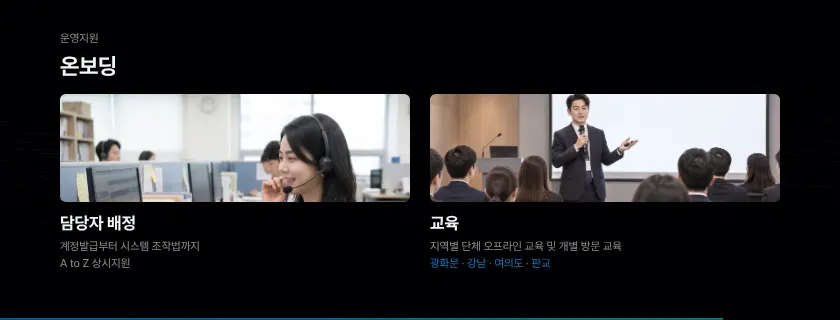
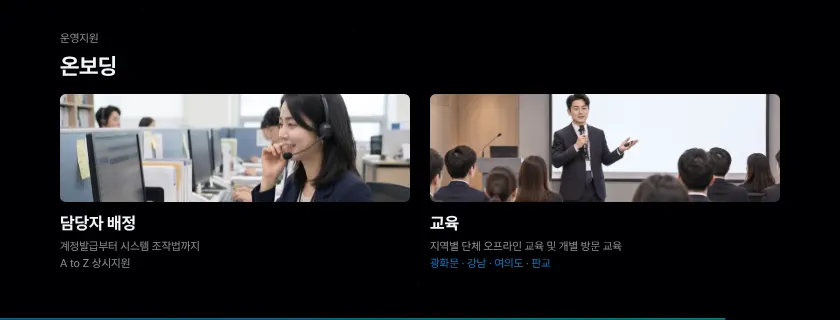
session4 K28a: 담당자 배정 사진을 위로 올려 인물이 더 보이게(세로 위치 14% → 36%, 머리부터 상반신까지)
Claude-Session: https://claude.ai/code/session_01Mn7NmyW5iujmmHnaRBFKBZ

Changed region(s): [[0.0619, 0.2812, 0.4952, 0.6562]]

diff --git a/sw.js b/sw.js
@@ -1,5 +1,5 @@
 /* 오프라인 캐시 — 온라인 주소(https)로 한 번 열면 모든 파일을 저장해 두고, 통신이 끊겨도 저장본으로 동작합니다. */
-const V='seminar-screen-11262136';
+const V='seminar-screen-11262139';
 const FILES=["./","assets/KakaoBigSans-Bold.woff2","assets/KakaoBigSans-Regular.woff2","assets/KakaoSmallSans-Bold.woff2","assets/KakaoSmallSans-Light.woff2","assets/KakaoSmallSans-Regular.woff2","assets/OrbitControls.js","assets/PretendardVariable.woff2","assets/attendees.js","assets/blue-bloom.html","assets/cong1.webp","assets/cong2.webp","assets/ds-bg.html","assets/four-states.html","assets/intro.mp4","assets/irk-white.svg","assets/irk-wordmark-white.svg","assets/kism-intro.mp4","assets/kism-white.svg","assets/ksmp-white.svg","assets/panel.js","assets/qa-online.js","assets/s2/img1.png","assets/s2/img2.png","assets/s2/img3.png","assets/s2/img4.png","assets/s4/aws.webp","assets/s4/callcenter.webp","assets/s4/chair-1.webp","assets/s4/chair-2.webp","assets/s4/chair-3.webp","assets/s4/conexus-word.webp","assets/s4/ctl-1.webp","assets/s4/cx-1.webp","assets/s4/cx-2.webp","assets/s4/cx-3.webp","assets/s4/cx-flow.mp4","assets/s4/cx-pop1.webp","assets/s4/cx-pop2.webp","assets/s4/cx-vote.mp4","assets/s4/cx-vote.webp","assets/s4/cxs-1.webp","assets/s4/insurance.webp","assets/s4/isms-t.webp","assets/s4/isms.webp","assets/s4/ismsp-t.webp","assets/s4/ismsp.webp","assets/s4/kosmos-white.png","assets/s4/ks-1.webp","assets/s4/ks-2.webp","assets/s4/ks-3.webp","assets/s4/ks-4.webp","assets/s4/ks-5.webp","assets/s4/ks-video.webp","assets/s4/live-1.webp","assets/s4/live-2.webp","assets/s4/live-3.webp","assets/s4/live-4.webp","assets/s4/live-5.webp","assets/s4/live-6.webp","assets/s4/live-7.webp","assets/s4/live-8.webp","assets/s4/logos.webp","assets/s4/ocr-1.webp","assets/s4/ocr-2.webp","assets/s4/ocr-3.webp","assets/s4/ocr-4.webp","assets/s4/ocr-5.webp","assets/s4/on-1.png","assets/s4/on-2.webp","assets/s4/on-3.webp","assets/s4/on-4.png","assets/s4/on-5.webp","assets/s4/onboard-1.webp","assets/s4/onboard-2.webp","assets/s4/privacy.webp","assets/s4/proxymity.svg","assets/s4/rehearsal.webp","assets/s4/streaming-korea.webp","assets/s4/tab-1.webp","assets/s4/tab-2.webp","assets/s4/team.webp","assets/sched.js","assets/screen-title-2.svg","assets/screen-title-b-text.svg","assets/screen-title-b.svg","assets/seat-banners.js","assets/seat-fascia.js","assets/seat-screen.js","assets/seatmap.js","assets/service-intro.mp4","assets/speaker-scott.webp","assets/speaker1-1.webp","assets/speaker2.webp","assets/speaker3-1.webp","assets/supabase.min.js","assets/three.min.js","assets/title-logos.svg","control.html","index-fs.html","index.html","kism.html","lobby/cuts.html","lobby/index.html","mc.html","session2.html","session4.html","sw.js","tools/s2_build.py","tools/s2_shell.html","assets/s3/p01.webp","assets/s3/p02.webp","assets/s3/p03.webp","assets/s3/p04.webp","assets/s3/p05.webp","assets/s3/p06.webp","assets/s3/p07.webp","assets/s3/p08.webp","assets/s3/p09.webp","assets/s3/p10.webp","assets/s3/p11.webp","assets/s3/p12.webp","assets/s3/p13.webp","assets/s3/p14.webp","assets/s3/p15.webp","assets/s3/p16.webp","assets/s3/p17.webp","assets/s3/p18.webp","assets/s3/p19.webp","assets/s3/p20.webp","assets/s3/p21.webp","assets/s3/p22.webp","assets/s3/p23.webp","assets/kism/photo-main.webp","assets/kism/photo-2.webp","assets/kism/photo-3.webp","assets/kism/photo-4.webp","assets/sound/countdown-tick.mp3","assets/sound/sfx-s3-part.mp3","assets/sound/sfx-s4-reveal.mp3","assets/sound/sfx-s5-proxymity.mp3","assets/sound/sfx-s6-chime.mp3","assets/sound/sfx-s7-close.mp3","assets/sound/opening-hit.mp3","assets/s4/kosmos-color.svg","assets/s4/ke-logo.png","assets/s4/ke-live.mp4","assets/kism/kwon-talk.mp4","assets/kism/manual-book.webp","kism-open.html","kism_16x9.html","led.html","assets/s4/cx-ops.mp4","assets/s4/cx-ops.webp","assets/s4/agent-app.mp4","assets/s4/pc-map.webp","assets/s4/pc-map.mp4","assets/s4/agent-app.webp","assets/s4/k24b-bg.webp","session0.html","face.html","assets/face-link.js","assets/kism/photo-main-cut.webp","assets/s4/cx-chair.mp4","assets/s4/cx-chair.webp","assets/s4/cx-test.mp4","assets/s4/cx-test.webp","assets/s4/onboard-mgr.webp","assets/s4/proxymity-logo.png","assets/s4/k21-bg.webp","assets/s4/kosmos-admin-white.svg","assets/kism-intro-16x9.mp4","assets/seat-guide.html","assets/s4/app-icon-agent.svg","assets/ds-main.mp4","assets/s4/k2-agency.webp","assets/s4/k2-support.webp","assets/s4/thumbs/K00.webp","assets/s4/thumbs/K01.webp","assets/s4/thumbs/K02.webp","assets/s4/thumbs/K03.webp","assets/s4/thumbs/K04.webp","assets/s4/thumbs/K05.webp","assets/s4/thumbs/K06.webp","assets/s4/thumbs/K07.webp","assets/s4/thumbs/K08.webp","assets/s4/thumbs/K09.webp","assets/s4/thumbs/K10.webp","assets/s4/thumbs/K11.webp","assets/s4/thumbs/K12.webp","assets/s4/thumbs/K13.webp","assets/s4/thumbs/K14.webp","assets/s4/thumbs/K15.webp","assets/s4/thumbs/K16.webp","assets/s4/thumbs/K17.webp","assets/s4/thumbs/K18a.webp","assets/s4/thumbs/K18b.webp","assets/s4/thumbs/K18c.webp","assets/s4/thumbs/K19.webp","assets/s4/thumbs/K19b.webp","assets/s4/thumbs/K19c.webp","assets/s4/thumbs/K20.webp","assets/s4/thumbs/K21.webp","assets/s4/thumbs/K21b.webp","assets/s4/thumbs/K22s.webp","assets/s4/thumbs/K23.webp","assets/s4/thumbs/K23b.webp","assets/s4/thumbs/K24a.webp","assets/s4/thumbs/K24b.webp","assets/s4/thumbs/K24c.webp","assets/s4/thumbs/K25.webp","assets/s4/thumbs/K25b.webp","assets/s4/thumbs/K26.webp","assets/s4/thumbs/K27.webp","assets/s4/thumbs/K28a.webp","assets/s4/thumbs/K28b.webp","assets/s4/thumbs/K28c.webp","assets/s4/thumbs/K28d.webp","assets/s4/thumbs/K29.webp","assets/s4/thumbs/K30.webp","assets/s4/thumbs/K09b.webp","assets/s4/thumbs/K28e.webp","assets/s4/onsite-vote.mp4","assets/s4/onsite-vote.webp"];
 self.addEventListener('install',e=>{e.waitUntil(caches.open(V).then(c=>c.addAll(FILES)).then(()=>self.skipWaiting()));});
 self.addEventListener('activate',e=>{e.waitUntil(caches.keys().then(ks=>Promise.all(ks.filter(k=>k!==V).map(k=>caches.delete(k)))).then(()=>self.clients.claim()));});
